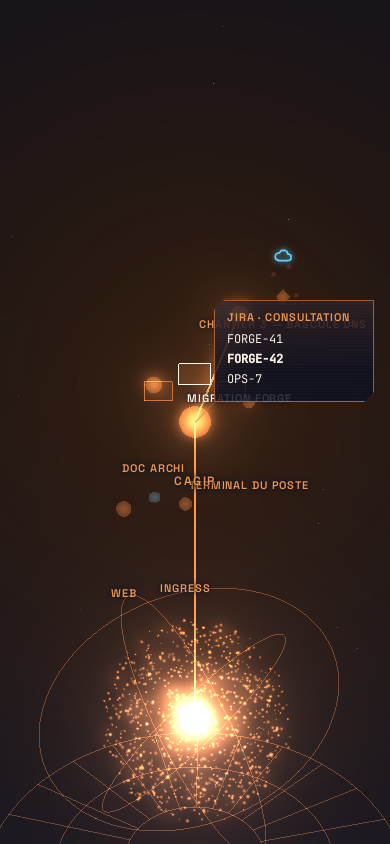
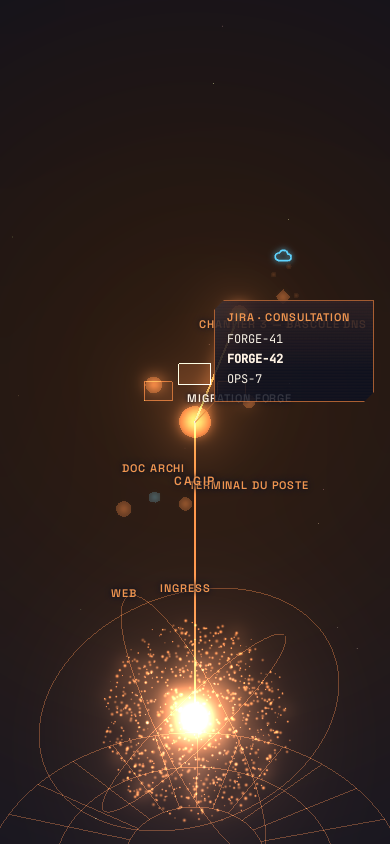
feat(SF-236-21): polissage visuel 3 et planche de l'itération 3 — filet entre les vues des panneaux, défilement aux couleurs du verre, aberration ramenée à 0,004 ; séquence T-P4 au banc ; 40 captures refaites et planche docs/features/F-236/captures/iteration-3/index.html ; visa PO délégué

Changed region(s): [[0.2462, 0.7393, 0.7385, 0.9858]]

diff --git a/docs/features/F-236/captures/iteration-3/index.html b/docs/features/F-236/captures/iteration-3/index.html
@@ -1,0 +1,43 @@
+<!doctype html>
+<html lang="fr">
+<head>
+<meta charset="utf-8">
+<meta name="viewport" content="width=device-width, initial-scale=1">
+<title>Jarvis 3D — planche itération 3</title>
+<style>
+  :root { --navy: #0B1020; --orange: #E07B39; --orange-2: #F0954F; --cream: #F5EFE3; --cyan: #5FD4FF; }
+  body { margin: 0; padding: 24px 16px 48px; background: var(--navy); color: var(--cream);
+    font-family: 'Inter', system-ui, sans-serif; }
+  h1, h2, h3 { font-family: 'Space Grotesk', 'Inter', sans-serif; letter-spacing: .06em; text-transform: uppercase; }
+  h1 { color: var(--orange-2); font-size: 22px; }
+  h2 { color: var(--orange-2); font-size: 16px; margin-top: 40px; border-bottom: 1px solid #F0954F55; padding-bottom: 8px; }
+  h3 { font-size: 13px; color: var(--cream); margin: 24px 0 8px; }
+  p, li { max-width: 920px; line-height: 1.5; }
+  .grid { display: grid; grid-template-columns: repeat(auto-fill, minmax(260px, 1fr)); gap: 12px; }
+  .strip { display: flex; gap: 8px; overflow-x: auto; padding-bottom: 8px; }
+  .strip figure.pc { flex: 0 0 300px; }
+  .strip figure.telephone { flex: 0 0 120px; }
+  figure { margin: 0; }
+  img { width: 100%; display: block; border: 1px solid #E07B3940; }
+  figcaption { font-size: 12px; opacity: .8; margin-top: 4px; }
+  .note { border-left: 3px solid var(--cyan); padding: 8px 12px; background: #5FD4FF14; }
+</style>
+</head>
+<body>
+<h1>Jarvis en 3D — planche de référence, itération 3 « Le cockpit PC »</h1>
+<p>F-236 / SF-236-15 → SF-236-21. Sur PC large (≥ 1280 px), <code>/jarvis</code> en 3D devient un <b>cockpit</b> : deux panneaux latéraux en verre holographique, repliables (T-P4), dont chaque ligne tend un filament vers son nœud ; calques complets (profondeur de champ des particules du fond, SMAA, finition). Les vues : « Aujourd'hui » (chiffres touchables = « Montrer » local, sans tour), météo des chantiers (et petit ciel au-dessus des losanges), personnes et attentes, étagère « À envoyer », mur de tickets, chronologies (arc de perles du tour, journée lue hors tour), inspecteur de nœud, recherche « montre-moi » au clavier. Tableaux détachables posés dans l'univers (L4).</p>
+<p>Au téléphone (matrice §12.2) : aucun panneau dans la scène, « ☰ Vues » ouvre les mêmes vues en volets plein écran ; liaisons du focus seulement, un panneau ancré, entrée 1,2 s, décor simple. Aucun appel IA, aucune consigne touchée, aucun endpoint nouveau (la journée lit l'historique existant, isolé par <code>user_id</code>).</p>
+<p>Captures du banc headless en rendu logiciel (swiftshader) : téléphone 390 × 844 (niveau Moyen), PC 1920 × 1080 (niveau Haut), univers de test (CAGIP, Edenred ; sujet « Migration Forge », chantier 3, Zahi attendu). La capture « téléphone » des scènes <code>cockpit-*</code> montre l'écran du téléphone tel qu'il reste (sans panneaux).</p>
+<p><span class="note">Visa du PO délégué pour cette vague : la planche est fournie, les remarques de goût seront traitées dans la SF de polissage suivante.</span></p>
+<section><h2>Le cockpit PC (SF-236-15)</h2><div class="grid"><figure class="telephone"><img loading="lazy" src="../cockpit/cockpit-t1200-telephone.png" alt="Panneaux ouverts — univers derrière, pleine largeur · téléphone"><figcaption>Panneaux ouverts — univers derrière, pleine largeur · téléphone</figcaption></figure><figure class="pc"><img loading="lazy" src="../cockpit/cockpit-t1200-pc.png" alt="Panneaux ouverts — univers derrière, pleine largeur · PC"><figcaption>Panneaux ouverts — univers derrière, pleine largeur · PC</figcaption></figure><figure class="telephone"><img loading="lazy" src="../cockpit/cockpit-replie-t1200-telephone.png" alt="Panneaux repliés (T-P4) — poignées seules · téléphone"><figcaption>Panneaux repliés (T-P4) — poignées seules · téléphone</figcaption></figure><figure class="pc"><img loading="lazy" src="../cockpit/cockpit-replie-t1200-pc.png" alt="Panneaux repliés (T-P4) — poignées seules · PC"><figcaption>Panneaux repliés (T-P4) — poignées seules · PC</figcaption></figure><figure class="telephone"><img loading="lazy" src="../cockpit/cockpit-filament-t1200-telephone.png" alt="Filament liste ↔ nœud (CAGIP survolé) · téléphone"><figcaption>Filament liste ↔ nœud (CAGIP survolé) · téléphone</figcaption></figure><figure class="pc"><img loading="lazy" src="../cockpit/cockpit-filament-t1200-pc.png" alt="Filament liste ↔ nœud (CAGIP survolé) · PC"><figcaption>Filament liste ↔ nœud (CAGIP survolé) · PC</figcaption></figure></div></section>
+<section><h2>Journée et météo (SF-236-16)</h2><div class="grid"><figure class="telephone"><img loading="lazy" src="../cockpit/cockpit-journee-t1200-telephone.png" alt="« Attentes » touché — « Montrer » local, sans tour · téléphone"><figcaption>« Attentes » touché — « Montrer » local, sans tour · téléphone</figcaption></figure><figure class="pc"><img loading="lazy" src="../cockpit/cockpit-journee-t1200-pc.png" alt="« Attentes » touché — « Montrer » local, sans tour · PC"><figcaption>« Attentes » touché — « Montrer » local, sans tour · PC</figcaption></figure><figure class="telephone"><img loading="lazy" src="../cockpit/cockpit-meteo-t1200-telephone.png" alt="Météo : orage, nuage, brume, soleil ; ciel au-dessus du losange · téléphone"><figcaption>Météo : orage, nuage, brume, soleil ; ciel au-dessus du losange · téléphone</figcaption></figure><figure class="pc"><img loading="lazy" src="../cockpit/cockpit-meteo-t1200-pc.png" alt="Météo : orage, nuage, brume, soleil ; ciel au-dessus du losange · PC"><figcaption>Météo : orage, nuage, brume, soleil ; ciel au-dessus du losange · PC</figcaption></figure></div></section>
+<section><h2>Chronologies (SF-236-17)</h2><div class="grid"><figure class="telephone"><img loading="lazy" src="../cockpit/cockpit-chronologies-t1200-telephone.png" alt="Arc de perles du tour ; journée chargée hors tour, un tour touché · téléphone"><figcaption>Arc de perles du tour ; journée chargée hors tour, un tour touché · téléphone</figcaption></figure><figure class="pc"><img loading="lazy" src="../cockpit/cockpit-chronologies-t1200-pc.png" alt="Arc de perles du tour ; journée chargée hors tour, un tour touché · PC"><figcaption>Arc de perles du tour ; journée chargée hors tour, un tour touché · PC</figcaption></figure></div></section>
+<section><h2>Personnes, À envoyer, tickets (SF-236-18)</h2><div class="grid"><figure class="telephone"><img loading="lazy" src="../cockpit/cockpit-personnes-t1200-telephone.png" alt="Deux tableaux détachés, posés à côté de CAGIP (L4) · téléphone"><figcaption>Deux tableaux détachés, posés à côté de CAGIP (L4) · téléphone</figcaption></figure><figure class="pc"><img loading="lazy" src="../cockpit/cockpit-personnes-t1200-pc.png" alt="Deux tableaux détachés, posés à côté de CAGIP (L4) · PC"><figcaption>Deux tableaux détachés, posés à côté de CAGIP (L4) · PC</figcaption></figure></div></section>
+<section><h2>Inspecteur et recherche (SF-236-19)</h2><div class="grid"><figure class="telephone"><img loading="lazy" src="../cockpit/cockpit-inspecteur-t1200-telephone.png" alt="Fiche du chantier 3 (fidèle à l'univers) · téléphone"><figcaption>Fiche du chantier 3 (fidèle à l'univers) · téléphone</figcaption></figure><figure class="pc"><img loading="lazy" src="../cockpit/cockpit-inspecteur-t1200-pc.png" alt="Fiche du chantier 3 (fidèle à l'univers) · PC"><figcaption>Fiche du chantier 3 (fidèle à l'univers) · PC</figcaption></figure><figure class="telephone"><img loading="lazy" src="../cockpit/cockpit-recherche-t1200-telephone.png" alt="Recherche « forge » — résultats, fiche · téléphone"><figcaption>Recherche « forge » — résultats, fiche · téléphone</figcaption></figure><figure class="pc"><img loading="lazy" src="../cockpit/cockpit-recherche-t1200-pc.png" alt="Recherche « forge » — résultats, fiche · PC"><figcaption>Recherche « forge » — résultats, fiche · PC</figcaption></figure></div></section>
+<section><h2>Téléphone allégé (SF-236-20)</h2><div class="grid"><figure class="telephone"><img loading="lazy" src="../telephone/cockpit-vues-t1200-telephone.png" alt="« ☰ Vues » — volet « Aujourd'hui » · téléphone"><figcaption>« ☰ Vues » — volet « Aujourd'hui » · téléphone</figcaption></figure><figure class="pc"><img loading="lazy" src="../telephone/cockpit-vues-t1200-pc.png" alt="« ☰ Vues » — volet « Aujourd'hui » · PC"><figcaption>« ☰ Vues » — volet « Aujourd'hui » · PC</figcaption></figure><figure class="telephone"><img loading="lazy" src="../telephone/univers-telephone-t1200-telephone.png" alt="Univers : liaisons du focus seulement, décor simple · téléphone"><figcaption>Univers : liaisons du focus seulement, décor simple · téléphone</figcaption></figure><figure class="pc"><img loading="lazy" src="../telephone/univers-telephone-t1200-pc.png" alt="Univers : liaisons du focus seulement, décor simple · PC"><figcaption>Univers : liaisons du focus seulement, décor simple · PC</figcaption></figure><figure class="telephone"><img loading="lazy" src="../telephone/scene-tickets-t1200-telephone.png" alt="S4 tickets : deux panneaux · téléphone"><figcaption>S4 tickets : deux panneaux · téléphone</figcaption></figure><figure class="pc"><img loading="lazy" src="../telephone/scene-tickets-t1200-pc.png" alt="S4 tickets : deux panneaux · PC"><figcaption>S4 tickets : deux panneaux · PC</figcaption></figure><figure class="telephone"><img loading="lazy" src="../telephone/scene-commande-t1200-telephone.png" alt="S3 commande : un panneau · téléphone"><figcaption>S3 commande : un panneau · téléphone</figcaption></figure><figure class="pc"><img loading="lazy" src="../telephone/scene-commande-t1200-pc.png" alt="S3 commande : un panneau · PC"><figcaption>S3 commande : un panneau · PC</figcaption></figure><figure class="telephone"><img loading="lazy" src="../telephone/entree-t1200-telephone.png" alt="Entrée (1,2 s au téléphone) · téléphone"><figcaption>Entrée (1,2 s au téléphone) · téléphone</figcaption></figure><figure class="pc"><img loading="lazy" src="../telephone/entree-t1200-pc.png" alt="Entrée (1,2 s au téléphone) · PC"><figcaption>Entrée (1,2 s au téléphone) · PC</figcaption></figure></div></section>
+<section><h2>Transitions (séquences de 6 images)</h2><h3>T-P4 — repli d'un panneau latéral (0,32 s, glisse) · téléphone</h3><div class="strip"><figure class="telephone"><img loading="lazy" src="../transitions/cockpit-repli-anim-t0-telephone.png" alt="t = 0 ms"><figcaption>t = 0 ms</figcaption></figure><figure class="telephone"><img loading="lazy" src="../transitions/cockpit-repli-anim-t64-telephone.png" alt="t = 64 ms"><figcaption>t = 64 ms</figcaption></figure><figure class="telephone"><img loading="lazy" src="../transitions/cockpit-repli-anim-t128-telephone.png" alt="t = 128 ms"><figcaption>t = 128 ms</figcaption></figure><figure class="telephone"><img loading="lazy" src="../transitions/cockpit-repli-anim-t192-telephone.png" alt="t = 192 ms"><figcaption>t = 192 ms</figcaption></figure><figure class="telephone"><img loading="lazy" src="../transitions/cockpit-repli-anim-t256-telephone.png" alt="t = 256 ms"><figcaption>t = 256 ms</figcaption></figure><figure class="telephone"><img loading="lazy" src="../transitions/cockpit-repli-anim-t320-telephone.png" alt="t = 320 ms"><figcaption>t = 320 ms</figcaption></figure></div><h3>T-P4 — repli d'un panneau latéral (0,32 s, glisse) · PC</h3><div class="strip"><figure class="pc"><img loading="lazy" src="../transitions/cockpit-repli-anim-t0-pc.png" alt="t = 0 ms"><figcaption>t = 0 ms</figcaption></figure><figure class="pc"><img loading="lazy" src="../transitions/cockpit-repli-anim-t64-pc.png" alt="t = 64 ms"><figcaption>t = 64 ms</figcaption></figure><figure class="pc"><img loading="lazy" src="../transitions/cockpit-repli-anim-t128-pc.png" alt="t = 128 ms"><figcaption>t = 128 ms</figcaption></figure><figure class="pc"><img loading="lazy" src="../transitions/cockpit-repli-anim-t192-pc.png" alt="t = 192 ms"><figcaption>t = 192 ms</figcaption></figure><figure class="pc"><img loading="lazy" src="../transitions/cockpit-repli-anim-t256-pc.png" alt="t = 256 ms"><figcaption>t = 256 ms</figcaption></figure><figure class="pc"><img loading="lazy" src="../transitions/cockpit-repli-anim-t320-pc.png" alt="t = 320 ms"><figcaption>t = 320 ms</figcaption></figure></div></section>
+<p><b>Polissage 3 (SF-236-21)</b> : filet entre les vues des panneaux (hiérarchie), barre de défilement aux couleurs du verre, aberration chromatique ramenée à 0,004 (les franges sur les étoiles floues du bord se voyaient), « 0 » éteint lisible (crème), ciel des chantiers à 20 px.</p>
+<p><b>Règles §7.3</b> : jamais de saut (le centre de l'univers glisse avec les panneaux, T-P4 en `glisse`) · couleurs d'état d'une seule source (`jarvis-motion.ts`) — rouge réservé aux alertes et à l'orage d'un chantier bloqué · texte DOM net (panneaux, fiches, tableaux) · rien ne navigue sauf un sujet choisi · aucun appel pendant un tour (journée à la demande, hors tour).</p>
+<p><b>Mesures i/s</b> : à relever sur le PC du PO (1920 × 1080, rapport 2560 × 1440) et sur son téléphone (le banc headless est en rendu logiciel) ; l'événement `RENDER` (SF-236-06) les remonte en production.</p>
+</body>
+</html>

diff --git a/frontend/src/app/jarvis/stage3d/jarvis-banc.component.ts b/frontend/src/app/jarvis/stage3d/jarvis-banc.component.ts
@@ -2,7 +2,7 @@ import { ChangeDetectionStrategy, Component, afterNextRender, inject, viewChild 
 
 import { bancPlan, bancScreen } from './jarvis-banc-scenes';
 import { JARVIS_BANC, JarvisStage3dComponent } from './jarvis-stage-3d.component';
-import { holoCssVars } from './jarvis-motion';
+import { MOTION_DURATIONS, ease, holoCssVars } from './jarvis-motion';
 import { JarvisCockpitComponent } from './hud/jarvis-cockpit.component';
 import { OPEN_FOLDS, writeFolds } from './hud/jarvis-cockpit-layout';
 import { ShowFilter } from '../scenes/jarvis-show';
@@ -37,6 +37,7 @@ import { JARVIS_DAY_HISTORY } from './hud/jarvis-cockpit.component';
 })
 export class JarvisBancComponent {
   private readonly scene = inject(JARVIS_BANC)?.scene ?? 'coeur';
+  private readonly t = inject(JARVIS_BANC)?.t ?? 0;
   protected readonly vars = holoCssVars();
   protected readonly staged = bancPlan(this.scene,
     typeof matchMedia === 'function' && matchMedia('(max-width: 767px)').matches);
@@ -72,6 +73,20 @@ export class JarvisBancComponent {
         cockpit?.inspectNode('s-forge#3', 'chantier');
         if (this.scene === 'cockpit-recherche') {
           cockpit?.setQuery('forge');
+        }
+      }, 1500));
+    }
+    if (this.scene === 'cockpit-repli-anim') {
+      // SF-236-21 — séquence T-P4 : le panneau gauche se replie, posé à l'instant t du banc (courbe `glisse`).
+      afterNextRender(() => setTimeout(() => {
+        const p = ease('glisse', Math.min(1, this.t / MOTION_DURATIONS.sidePanel));
+        const aside = document.querySelector<HTMLElement>('.ck--left');
+        const body = aside?.querySelector<HTMLElement>('.ck__body');
+        if (aside && body) {
+          aside.style.transition = 'none';
+          body.style.transition = 'none';
+          aside.style.transform = `translateX(calc((-100% + 28px) * ${p.toFixed(3)}))`;
+          body.style.opacity = (1 - p).toFixed(3);
         }
       }, 1500));
     }

diff --git a/frontend/src/app/jarvis/stage3d/hud/jarvis-cockpit.component.scss b/frontend/src/app/jarvis/stage3d/hud/jarvis-cockpit.component.scss
@@ -48,6 +48,7 @@
   color: var(--cg-cream, #F5EFE3);
   transition: opacity var(--jv-dur-sidePanel, 320ms) var(--jv-ease-glisse, ease-in-out);
   scrollbar-width: thin;
+  scrollbar-color: color-mix(in srgb, var(--cg-holo, #E07B39) 45%, transparent) transparent;
 }
 
 .ck--folded .ck__body {
@@ -72,7 +73,10 @@
 }
 
 .ck__section + .ck__section {
+  // SF-236-21 — hiérarchie : un filet entre les vues, le titre de section porte la lecture.
   margin-top: var(--cg-space-3);
+  padding-top: var(--cg-space-2);
+  border-top: 1px solid color-mix(in srgb, var(--cg-holo, #E07B39) 18%, transparent);
 }
 
 .ck__title {

diff --git a/frontend/src/app/jarvis/stage3d/jarvis-banc.ts b/frontend/src/app/jarvis/stage3d/jarvis-banc.ts
@@ -53,7 +53,9 @@ export const BANC_SCENES = ['coeur', 'ecoute', 'reflexion', 'parole', 'oui', 'co
   // SF-236-19 — inspecteur de nœud et recherche « montre-moi ».
   'cockpit-inspecteur', 'cockpit-recherche',
   // SF-236-20 — téléphone allégé : le volet des vues.
-  'cockpit-vues'] as const;
+  'cockpit-vues',
+  // SF-236-21 — séquence T-P4 (repli d'un panneau latéral).
+  'cockpit-repli-anim'] as const;
 
 const SCENE_NAME = /^[a-z0-9-]{1,40}$/;
 

diff --git a/frontend/src/app/jarvis/stage3d/jarvis-post-chain.ts b/frontend/src/app/jarvis/stage3d/jarvis-post-chain.ts
@@ -40,7 +40,7 @@ export const FINISH = {
   /** Amplitude du grain (0-1). */
   grain: 0.018,
   /** Décalage des canaux rouge / bleu sur les bords (part de l'écran, au carré de la distance au centre). */
-  aberration: 0.006,
+  aberration: 0.004,
 } as const;
 
 /** Profondeur de champ du calque L0 : élargissement maximal d'un point flou (× sa taille). */

diff --git a/docs/features/F-236/SF-236-21-polissage-planche-3.md b/docs/features/F-236/SF-236-21-polissage-planche-3.md
@@ -1,0 +1,86 @@
+# Mini-spec — [F-236 / SF-236-21] Polissage visuel 3 et planche de l'itération 3
+
+## Identifiant
+SF-236-21
+
+## Feature parente
+F-236 — Jarvis en 3D (cadrage §7.3, §15 ; itération 3 « Le cockpit PC », SF de polissage)
+
+## Statut
+done — **visa du PO délégué** pour cette vague (non bloquant)
+
+## Date de création
+2026-11-02
+
+## Branche Git
+`feat/SF-236-21-polissage-planche-3`
+
+---
+
+## Objectif
+
+Équilibrer le cockpit PC (densité, hiérarchie, lisibilité des panneaux) et produire la planche de référence de
+l'itération 3.
+
+## Comportement attendu
+
+### Cas nominal
+
+1. **Hiérarchie** : un filet (orange 18 %) entre les vues d'un panneau ; le titre de section porte la lecture.
+2. **Lisibilité** : barre de défilement aux couleurs du verre ; aberration chromatique de la finition ramenée de
+   0,006 à 0,004 (franges visibles sur les étoiles floues du bord) ; « 0 » éteint en crème (SF-236-16) ; ciel des
+   chantiers à 20 px (SF-236-16).
+3. **Séquence T-P4** au banc (`cockpit-repli-anim`) : le panneau gauche posé à l'instant `t` sur la courbe `glisse`
+   (6 images, 0 → 320 ms).
+4. **Planche** `docs/features/F-236/captures/iteration-3/index.html`, générée de `planche.json` par
+   `scripts/jarvis-planche.mjs` : 19 captures (cockpit, journée, météo, chronologies, personnes, inspecteur,
+   recherche, téléphone ; PC + téléphone) et la séquence T-P4 — 40 images, toutes refaites après polissage, chemins
+   vérifiés.
+
+### Cas d'erreur
+
+| Cas | Comportement |
+|---|---|
+| Capture prise pendant une recompilation | Refaite (garde d'overlay SF-236-14) ; serveur de dev relancé si cassé. |
+| Remarques de goût du PO | Traitées dans la SF de polissage suivante (visa délégué). |
+
+---
+
+## Critères d'acceptation
+
+- [x] CA1 — Planche produite (40 images, chemins vérifiés ; `npm run verify:planche` OK).
+- [x] CA2 — Polissage appliqué et visible sur les captures refaites.
+- [ ] CA3 — **Visa du PO** : délégué pour cette vague (non bloquant).
+- [ ] CA4 — i/s sur le PC (1920 × 1080, 2560 × 1440) et le téléphone du PO : à relever en usage (`RENDER`).
+
+## Contraintes de validation
+
+| Élément | Règle |
+|---|---|
+| Aberration | 0,004 |
+| Filet entre vues | `--cg-holo` à 18 % |
+
+## Plan de test
+
+- Suites Jarvis + suite frontend complète + build (bundle initial inchangé, morceau 3D sous la garde).
+- `npm run verify:planche`. Visuel : 40 captures, critère automatique (non vide, sans erreur console, sans overlay).
+
+## Périmètre
+
+### Impacté
+`hud/jarvis-cockpit.component.scss`, `jarvis-post-chain.ts`, banc (`cockpit-repli-anim`), captures `cockpit/`,
+`telephone/`, `transitions/cockpit-repli-anim-*`, planche `iteration-3/`.
+
+### Hors scope (explicite)
+- Toute vue nouvelle (itération 4). Aucun endpoint, table, appel IA ni consigne.
+
+## Préoccupations transversales
+Aucune cochée.
+
+## Notes et décisions
+
+| # | Arbitrage | Pourquoi | Alternative écartée | Réversible |
+|---|---|---|---|---|
+| A1 | Visa du PO délégué : fusion et suite sans attendre. | Consigne de la vague (goût réversible). | Bloquer sur le visa. | Oui. |
+| A2 | Séquence T-P4 posée au banc par style (transition CSS non pilotable par l'horloge du banc). | Captures reproductibles sur la même courbe `glisse`. | Captures en temps réel (non déterministes). | Oui. |
+| A3 | Planche non publiée en page hébergée (images locales au dépôt). | Même pratique qu'aux itérations 1 et 2. | Publication séparée. | Oui. |
